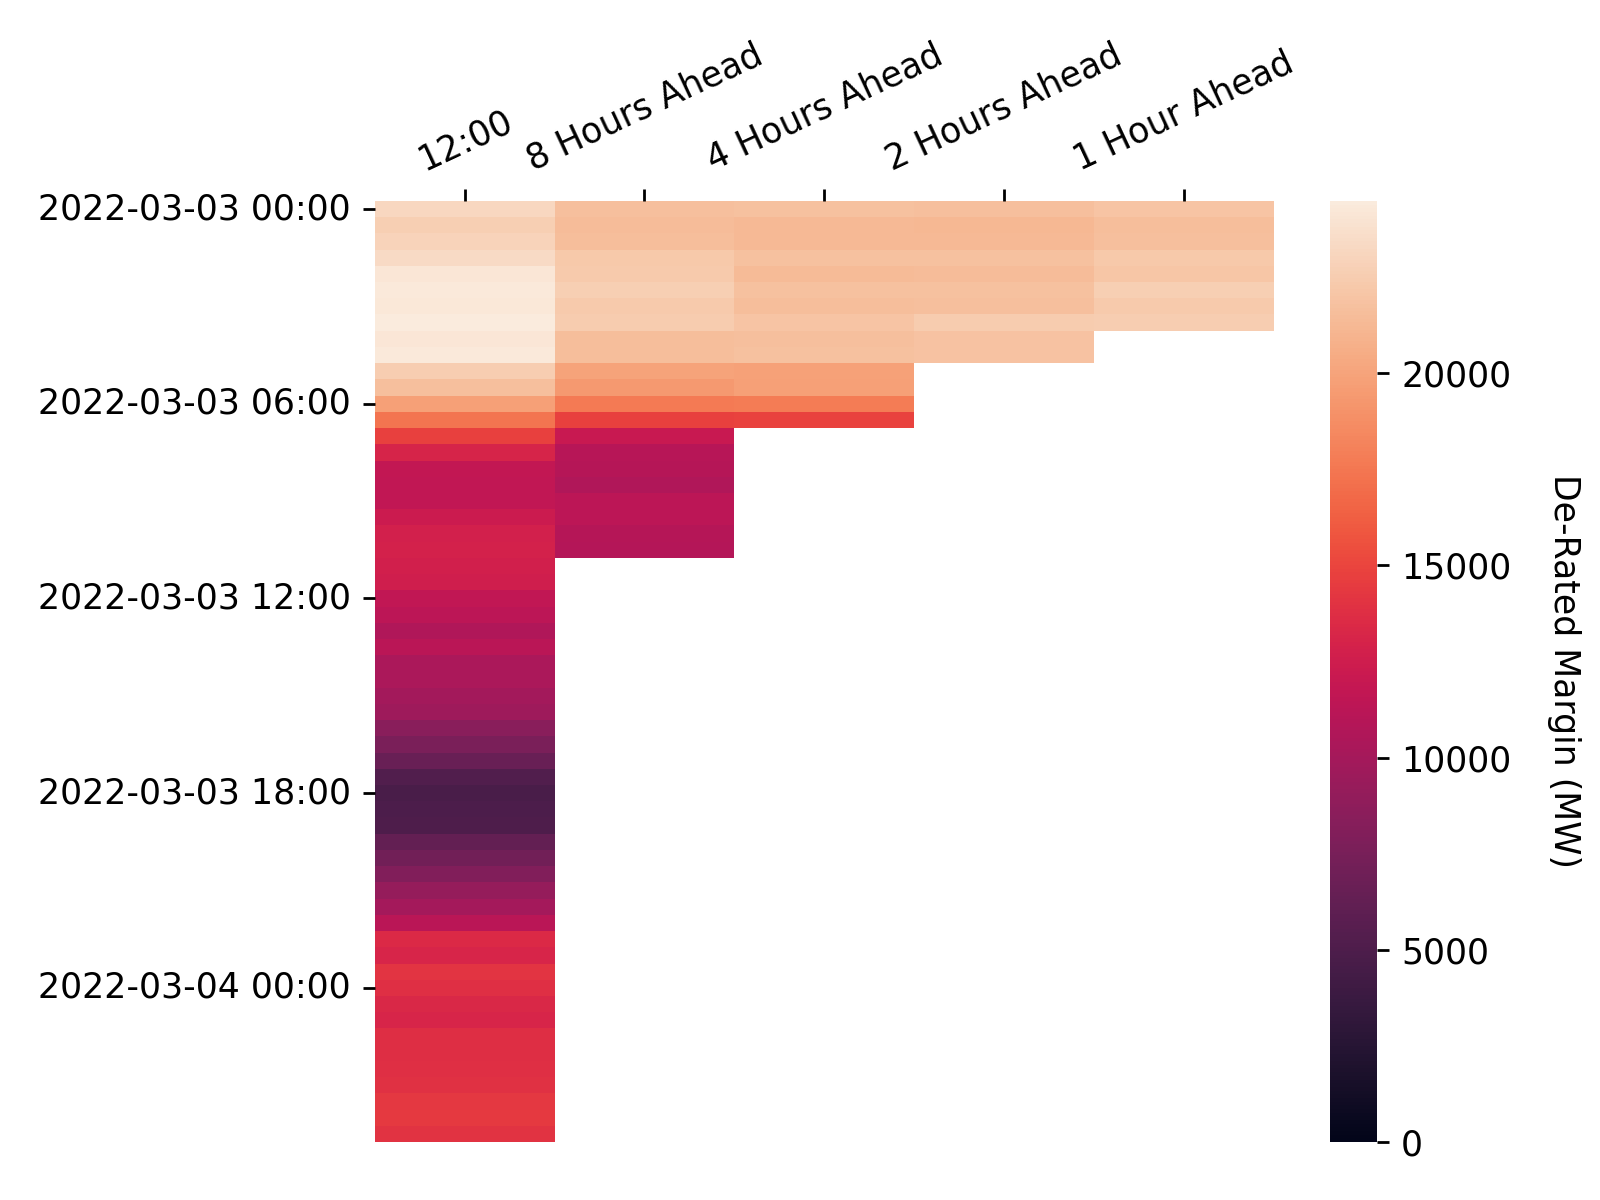
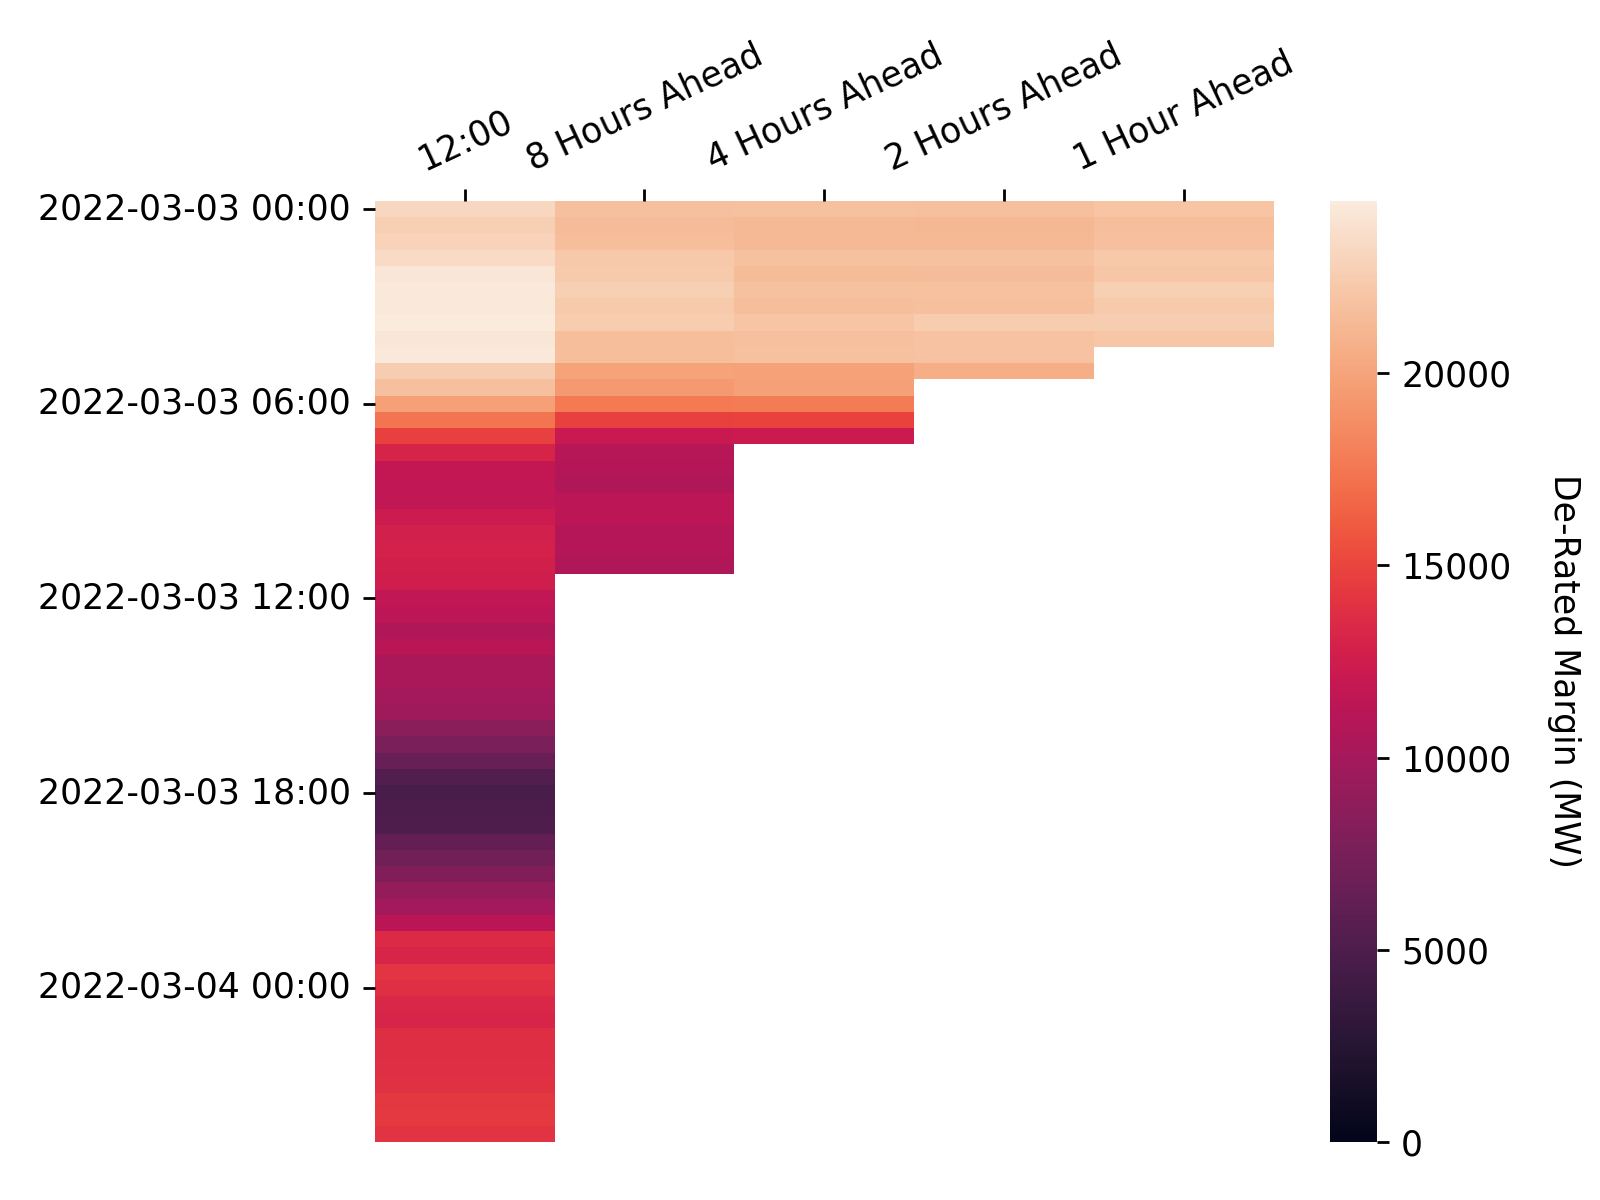
Apply automatic changes

Changed region(s): [[0.4375, 0.2775, 0.8125, 0.37], [0.3438, 0.4625, 0.4688, 0.4933]]

diff --git a/docs/js/map.js b/docs/js/map.js
@@ -144,7 +144,7 @@ document.addEventListener("DOMContentLoaded", function() {
                 follow: 1
             });
             mymap.addControl(sliderControl);
-            sliderControl.startSlider(334);
+            sliderControl.startSlider(335);
         });
     });
 });

diff --git a/docs/visualisations.md b/docs/visualisations.md
@@ -60,7 +60,7 @@ In each settlement period the system operator publishes the de-rated margin fore
 * At 1200 hours on each calendar day for all Settlement Periods for which Gate Closure has not yet passed and which occur within the current Operational Day or the following Operational Day; and
 * At eight, four, two and one hour(s) prior to the beginning of the Settlement Period to which the De-Rated Margin Forecast relates.
 
-These figures will be updated on an hourly basis, the last update was at: 2022-03-03 03:00
+These figures will be updated on an hourly basis, the last update was at: 2022-03-03 03:20
 
 <br>
 
@@ -83,7 +83,7 @@ The following heatmap shows how the more recent de-rated margin forecasts deviat
 
 ### Power Output Map
 
-Last Updated: 2022-03-03 03:00
+Last Updated: 2022-03-03 03:20
 
 This map shows the power output of individual plants connected to the transmission grid as stated in their most recent Physical Notifications. This data can be retrieved through the *PHYBMDATA* BMRS stream, the out-turn data can be viewed one week later through the *B1610* stream. The scrollbar at the top of the map can be used to view how the generation sources have changed their output over the last week, the layer control can be used to toggle on/off the transmission network, and the plants themselves can be clicked to reveal additional information. The plant location data used in this map has been taking from a sister project, [the Power Station Dictionary](https://osuked.github.io/Power-Station-Dictionary/), which aims to link between data about individual power plants.
 
